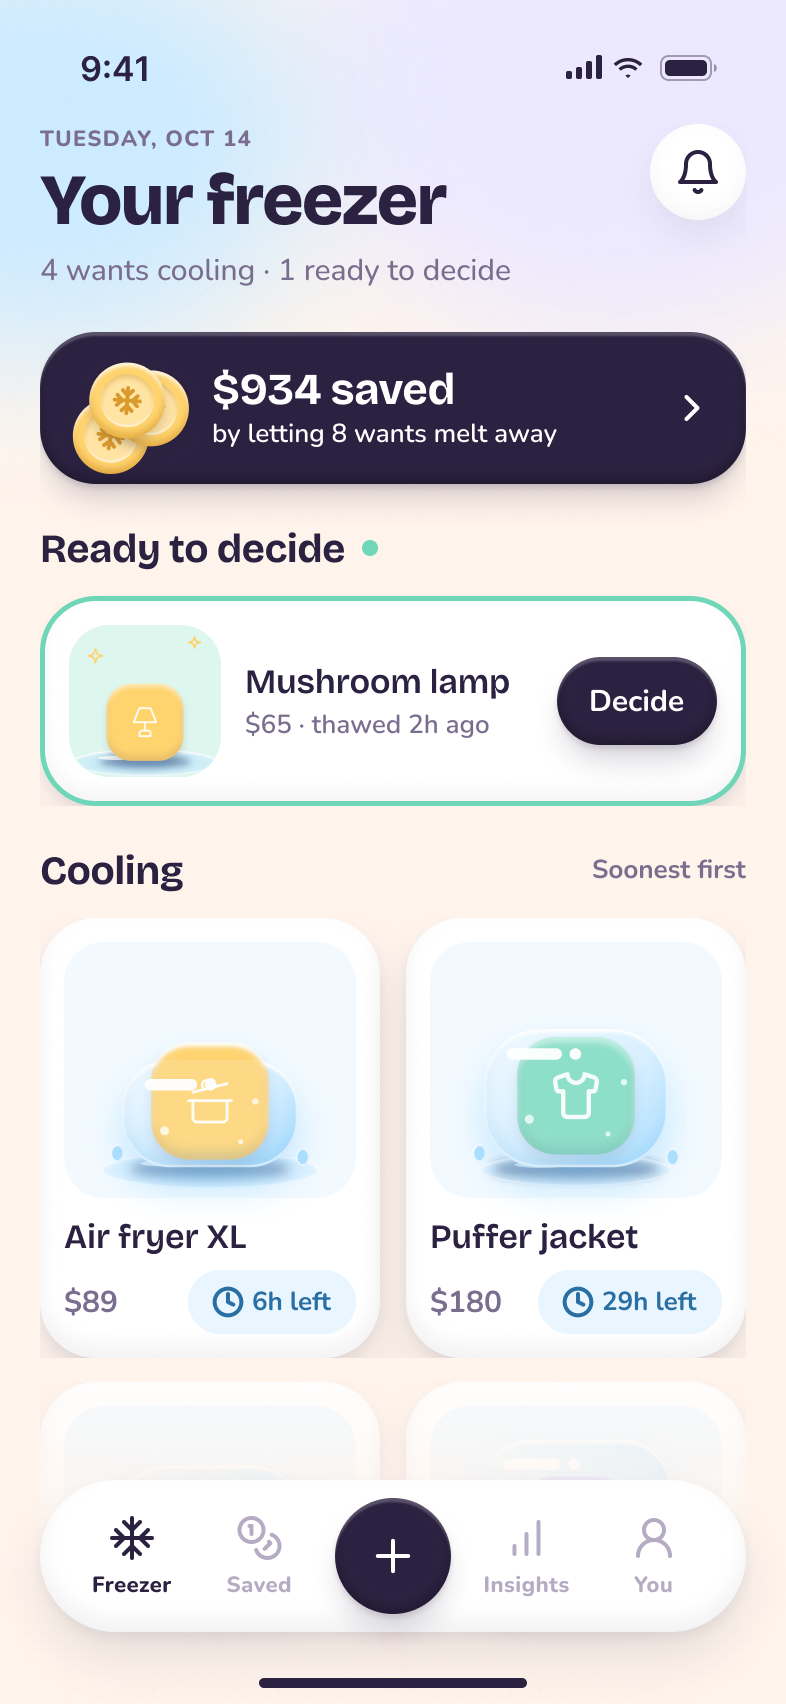
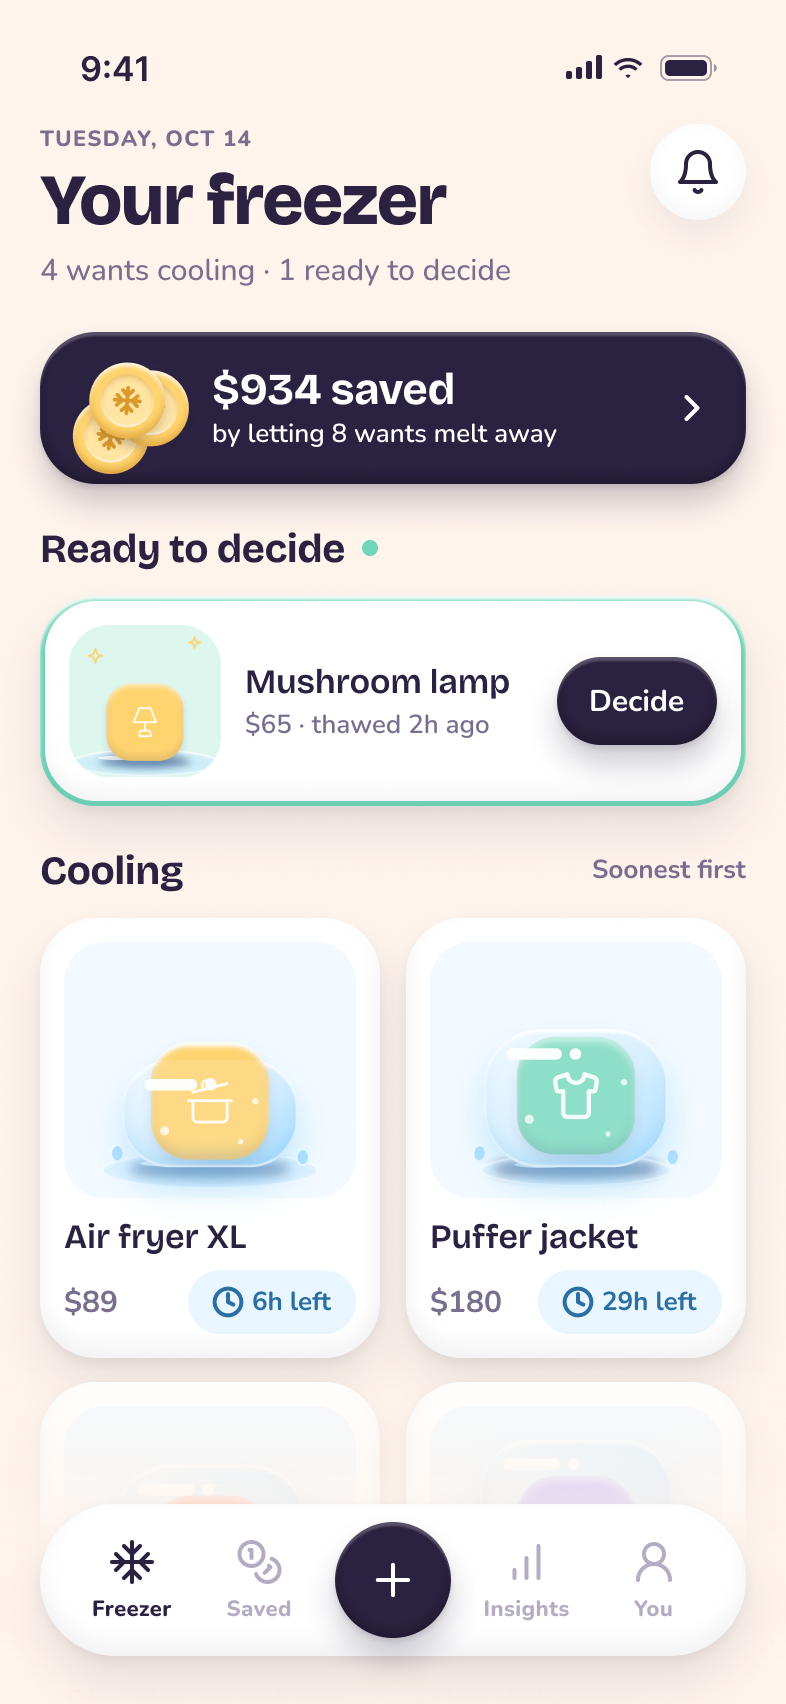
Export all 14 Figma screens and adopt the new glow + bottom rules
Re-exports every screen at 2x after the designer's art-direction pass:
one wide soft top glow per screen (plain canvas on tab screens), no
drawn home indicator, and bottom-anchored content 24pt from the edge.
The design spec documents the glow table and bottom rule.

Claude-Session: https://claude.ai/code/session_01ApVHJN7BAiTYovqEB5kpaC

diff --git a/docs/DESIGN_SPEC.md b/docs/DESIGN_SPEC.md
@@ -5,10 +5,8 @@
 This file is the source of truth for the app build and for the remaining Figma screens.
 Figma file: https://www.figma.com/design/BOiZOAtr1JNzelDQjUddsC (fileKey `BOiZOAtr1JNzelDQjUddsC`)
 
-Rendered references (2x PNGs):
-- `design/exports/01-freezer-home@2x.png`
-- `design/exports/02-item-cooling@2x.png`
-- `design/exports/03-thawed-decision@2x.png`
+Rendered references — 2x PNGs of every Figma screen in `design/exports/` (match these closely):
+`01-freezer-home`, `02-item-cooling`, `03-thawed-decision`, `04-let-go`, `05-saved`, `06-insights`, `07-you`, `08-onboarding-1`, `09-onboarding-2`, `10-onboarding-3`, `11-freeze-sheet`, `12-frozen-solid`, `13-freezer-empty`, `14-lock-screen` (each `@2x.png`).
 
 Figma node ids (read-only references):
 
@@ -64,12 +62,25 @@ Tokens live in `src/theme/tokens.ts`; never hard-code a hex value outside it. Fo
 - Inputs use `radius.md` (20).
 - Buttons and chips use `radius.full`.
 
-**Background glows**
-- Most screens have 1–2 large blurred ellipses behind the content (e.g. lavender100 top-right, ice200 top-left), 280–420px wide, at 0.8–1 opacity, blurred heavily.
-- In RN, use a `LinearGradient` wash, or an absolutely positioned `View` with a big radius and low opacity. A blur is optional on native.
+**Background glows** (art-directed by Anushka in Figma — follow exactly)
+- **Plain canvas, no glows:** Freezer home, Empty freezer, Insights, You.
+- **Everything else uses one wide, very soft top glow:** an ellipse 528 × 358 at x −67, y −118 (it spills past both screen edges), solid accent at 100%, layer blur 200. Web/CSS: `filter: blur(100px)` on that ellipse. Native: a radial gradient from the accent to transparent covering the top ~360pt.
+- Some screens add one **primary glow** behind the hero object:
+
+| Screen | Top glow | Primary glow / backdrop |
+|---|---|---|
+| Item cooling | lavender100 | ice backdrop gradient #CDEBFF → #EAF6FF → cream over the top 470pt |
+| Thawed | butter100 | mint100, 420 × 380 at (−20, 90), blur 60 |
+| Let-go | butter100 | mint500, 300 × 260 at (46, 300), blur 300 (very diffuse), over the mint100 → cream frame gradient |
+| Saved | mint100 | lavender100, 473 × 344 at (−40, 106), blur 80 |
+| Onboarding 1 | lavender100 | ice200, 420 × 380 at (−40, 60), blur 70 |
+| Onboarding 2 | ice200 | lavender100, same geometry |
+| Onboarding 3 | butter100 | mint100, same geometry |
+| Frozen solid | lavender100 | frame gradient ice200 → ice50 → cream, plus an ice400 glow under the cube (260 × 120 at 66, 440, blur 60) |
 
 **Status bar:** dark content.
-**Home indicator:** system.
+
+**No home indicator.** Never draw one in the UI; the designs intentionally have none. Bottom-anchored elements (tab bar, sticky CTAs, onboarding buttons) sit **24pt above the screen's bottom edge**. Do not add the 34pt safe-area inset on top of that; 24pt already clears the system indicator.
 
 ### Motion tokens
 | Name | Use | Values |
@@ -173,7 +184,7 @@ Geometry, on a 200 × 200 box scaled by `size / 200`, with the ground line at y 
 - White, 2.5px mint border, r28, padding 12, `raised`.
 - 76 × 76 mint100 stage with the thawed cube; name (Title/S) and "$65 · thawed 2h ago" (Body/S plum500); a small plum "Decide" button (padding 16/12, Label/M).
 
-**TabBar** — floating, 353 × 76, 20 above the bottom safe-area inset.
+**TabBar** — floating, 353 × 76, its bottom edge 24pt above the screen bottom (no extra safe-area inset).
 - White at 0.92, backdrop blur 20, `raised`, pill-shaped, horizontal padding 20.
 - Tabs: Freezer (snowflake), Saved (coins), [FAB], Insights (chart), You (user).
 - Each tab is a 24 icon over a Caption label. Active tabs are plum; inactive ones are plum300.
@@ -253,7 +264,7 @@ Background: lavender100 glow top-right and ice200 glow top-left.
   - A centred frozen Cube with the bag glyph.
   - "Your freezer is empty" (Title/L) / "Next time something tempts you, freeze it here first." (Body/M).
   - Primary button "Freeze something" → `/freeze`.
-- The bottom 170pt has a cream fade gradient under the tab bar. Content scrolls under the tab bar, with bottom padding 140.
+- The bottom 170pt has a cream fade gradient under the tab bar, anchored to the screen bottom. Content scrolls under the tab bar, with bottom padding 130.
 - Live updates: re-render every 30s, or every second when any item has less than 1 hour left.
 
 ### 4.3 Freeze sheet (`app/freeze.tsx`)
